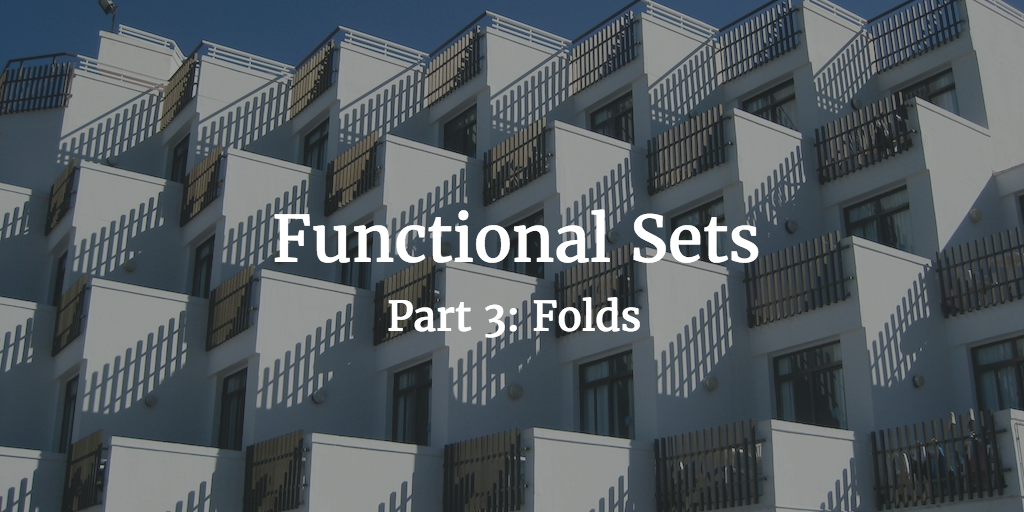
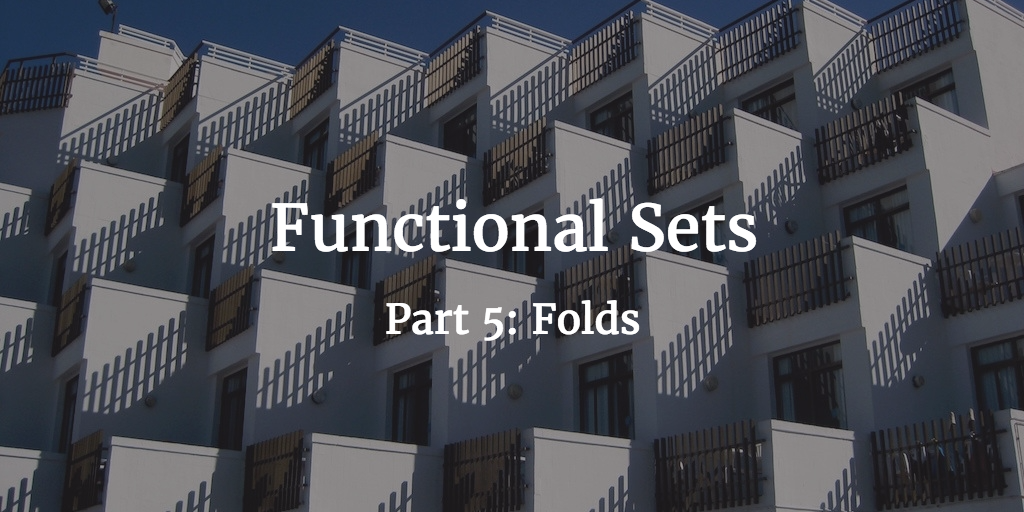
post(sets-folds): update place in series

Changed region(s): [[0.25, 0.375, 0.75, 0.5312], [0.375, 0.5625, 0.625, 0.6875]]

diff --git a/content/post/sets-folds.md b/content/post/sets-folds.md
@@ -1,6 +1,6 @@
 ---
-date: "2016-12-05T09:00:00-06:00"
-title: "Functional Sets, Part 3: Folds"
+date: "2016-12-19T09:00:00-06:00"
+title: "Functional Sets, Part 5: Folds"
 tags: ["elm"]
 featureimage: "/images/porches-by-vision-webagency.jpeg"
 thumbnail: "/images/porches-by-vision-webagency-with-title.png"
@@ -10,7 +10,7 @@ draft: true
 ---
 
 We're in the middle of a quest to build a toy set implementation from first principles.
-So far, we've implemented [our constructors]({{< ref "sets-intro.md" >}}), [size, and member]({{< ref "sets-member-size.md" >}}).
+So far, we've implemented [our constructors]({{< ref "sets-intro.md" >}}), [rotation]({{< ref "sets-balancing-rotation.md" >}}), [balancing]({{< ref "sets-balancing.md" >}}), [size, and member]({{< ref "sets-member-size.md" >}}).
 Last week we stopped off to review [how folds work]({{< ref "folds-basics.md" >}}).
 This week, we're going to create folds for our set!
 
@@ -142,7 +142,7 @@ size =
 ```
 
 Our combiner function ignores the value that's in the set, and instead increments the accumulator value.
-This is exactly what we were doing before, but now we can express it much more tersely.
+This is exactly what we were doing before, but now we can express it much more succinctly.
 
 Notice we're also doing this in point-free style!
 Since we're not providing all the arguments to `foldl`, it's curried into the function we want.
@@ -158,7 +158,7 @@ I prefer the point-free style, but do whatever makes sense to you.
 
 ### Member
 
-`member` is a more complex:
+`member` is somewhat more complex:
 
 ```elm
 member : comparable -> Set comparable -> Bool
@@ -180,7 +180,7 @@ But this new implementation looks at *every* value.
 That means it has to look at all `n` items in the tree.
 That may not seem like a significant difference, and in the size trees we've been working with, it isn't.
 But when we have trees with many items or values which are expensive to compare this difference blows up in our faces.
-If we have a set with a thousand values in it, our old implementation would only have to look at 6(ish) values.
+If we have a set with a thousand values in it, our old implementation would only have to look at 10(ish) values.
 But if we do it with a fold we'll have to look at all 1000!
 This tells us that while folds are useful, they're not suitable for *every* function.
 
